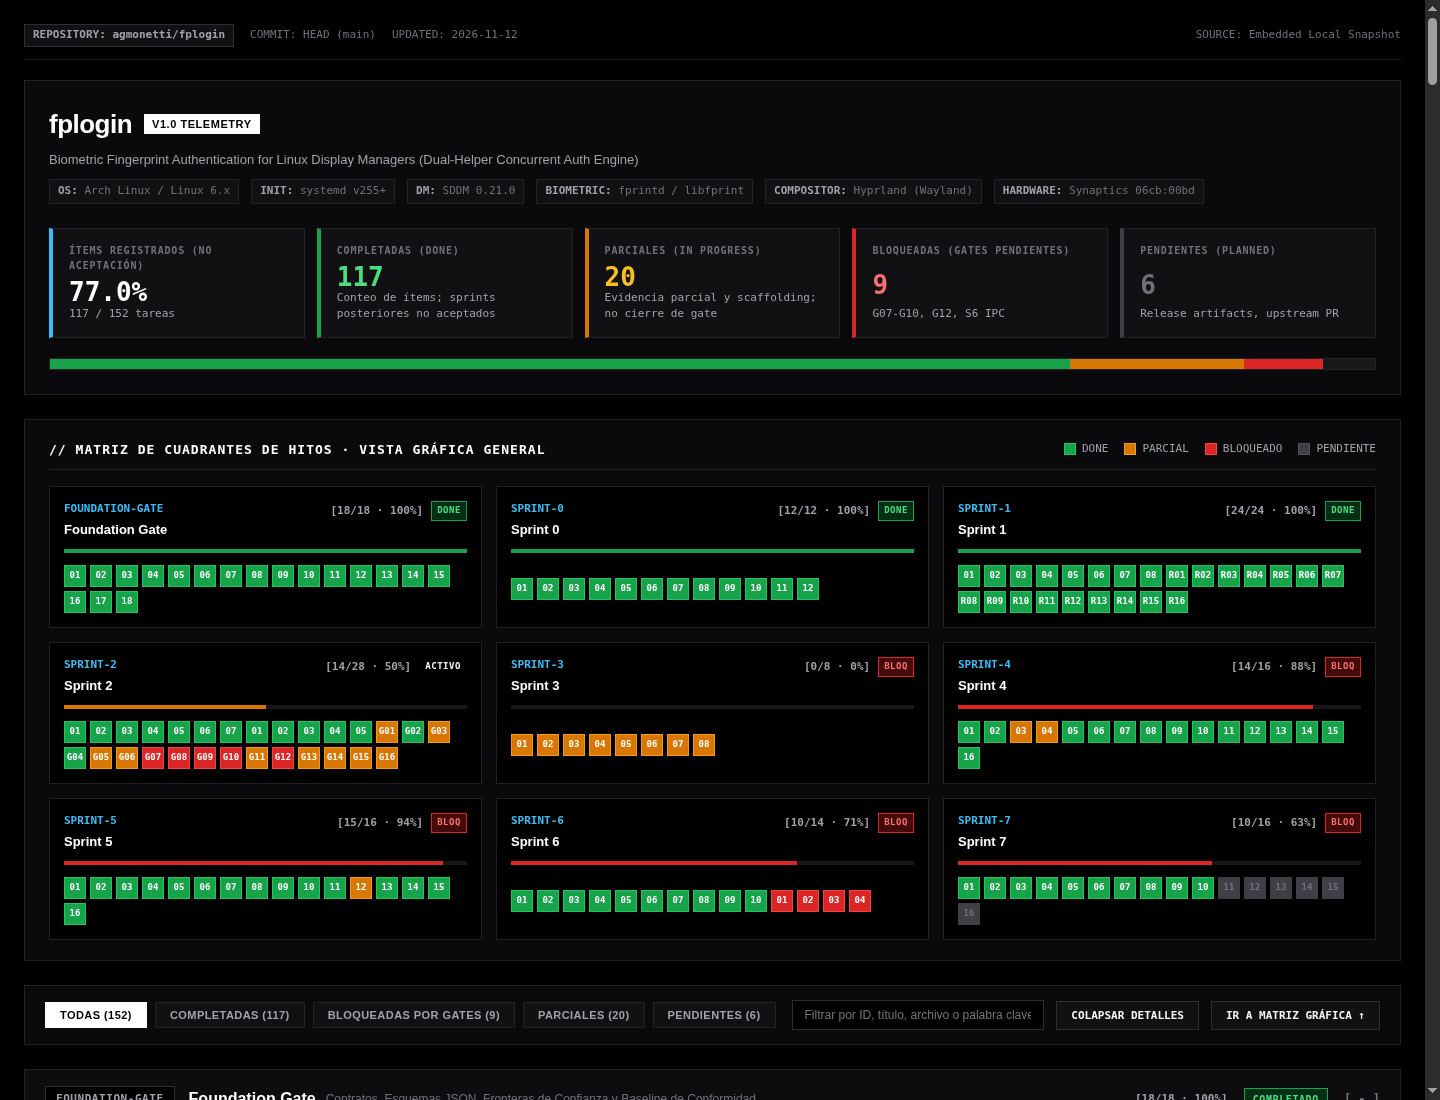
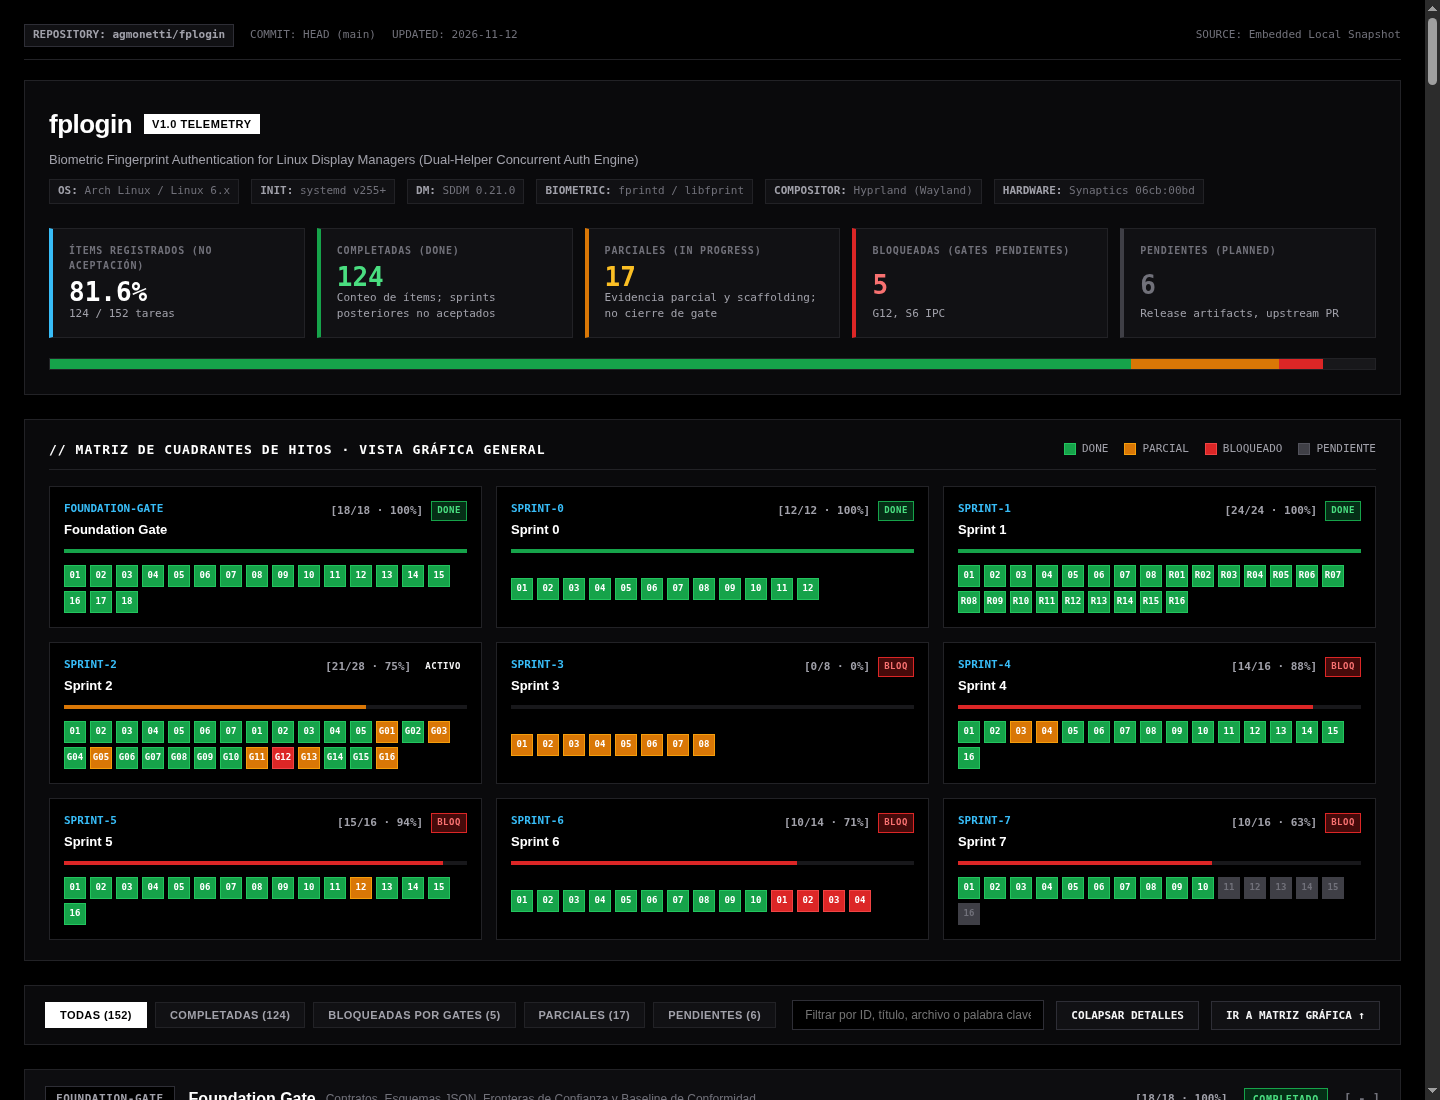
docs: record physical validation of G06c, Group B, G14 and G15; update dashboard

diff --git a/dashboard.html b/dashboard.html
@@ -922,7 +922,7 @@
       <div class="metric-card blocked">
         <div class="metric-label">Bloqueadas (gates pendientes)</div>
         <div class="metric-val" id="val-blocked" style="color: var(--status-blocked-text);">21</div>
-        <div class="metric-sub">G07-G10, G12, S6 IPC</div>
+        <div class="metric-sub">G12, S6 IPC</div>
       </div>
       <div class="metric-card pending">
         <div class="metric-label">Pendientes (Planned)</div>
@@ -1047,11 +1047,11 @@
     "next_step": "Revisión independiente; decisión sobre el greeter Qt5; pruebas con lector (Sprint 2 G06c/G07–G10/G14–G15 y el camino de huella del paquete).",
     "summary": {
       "total_items": 152,
-      "done": 117,
-      "partial": 20,
-      "blocked": 9,
+      "done": 124,
+      "partial": 17,
+      "blocked": 5,
       "pending": 6,
-      "percentage": 76.97
+      "percentage": 81.6
     }
   },
   "sprints": [
@@ -1613,37 +1613,37 @@
         {
           "id": "G06",
           "title": "G06: Lector Ausente / Servicio Apagado / Usuario No Enrolado",
-          "status": "partial",
-          "description": "G06a (lector ausente) y G06b (servicio enmascarado, Retry sin bucle) verificados en la superficie real, con la contraseña conservada que abre una sola sesión. Falta G06c (usuario sin huellas con lector).",
-          "evidence": "docs/SPRINT_2_VALIDATION_CHECKLIST.md; docs/reviews/sprint-2.md §12"
+          "status": "done",
+          "description": "G06a (sin lector), G06b (servicio enmascarado) y G06c (usuario fplab2 sin huellas con lector presente) verificados en superficie real sin bucles y con login por contraseña conservada.",
+          "evidence": "docs/SPRINT_2_VALIDATION_CHECKLIST.md; .work/evidence/sprint2/physical-20261112T134819-*"
         },
         {
           "id": "G07",
           "title": "G07: Cambio Rápido de Usuario / Sesión A–B–A",
-          "status": "blocked",
-          "description": "Offline hecho: con helper real dentro de PAM, A→B→A cancela con limpieza normal y el reemplazo arranca recién después de la salida observada (4/4). Falta la física con dos usuarios.",
-          "evidence": "docs/SPRINT_2_VALIDATION_CHECKLIST.md"
+          "status": "done",
+          "description": "Verificado en superficie real: con escaneo activo, A→B→A cancela helper viejo, espera su salida observada y el reemplazo gana limpiamente por huella en sesión seat0 única.",
+          "evidence": "docs/SPRINT_2_VALIDATION_CHECKLIST.md; .work/evidence/sprint2/physical-20261112T134819-*"
         },
         {
           "id": "G08",
           "title": "G08: Cancelación Previa al Ack y Reintento Explícito",
-          "status": "blocked",
-          "description": "Petición de cancelación enviada antes de que el demonio SDDM responda el acknowledge de inicio.",
-          "evidence": "docs/reviews/sprint-2.md (Pendiente Hardware)"
+          "status": "done",
+          "description": "Verificado en superficie real: cancelación con Escape (pam_authenticate rc=9, pam_end rc=0, salida normal), Retry relanza helper gen 2 y abre sesión por huella.",
+          "evidence": "docs/SPRINT_2_VALIDATION_CHECKLIST.md; .work/evidence/sprint2/physical-20261112T134819-*"
         },
         {
           "id": "G09",
           "title": "G09: Fallo de Contraseña y Reintento Continuo",
-          "status": "blocked",
-          "description": "Offline hecho: la contraseña errónea no reinicia la huella (misma generación), que gana con un solo permiso y una sola sesión (4/4). Falta la física.",
-          "evidence": "docs/SPRINT_2_VALIDATION_CHECKLIST.md"
+          "status": "done",
+          "description": "Verificado en superficie real: contraseña errónea da PAM rc=7 y sale, helper de huella sigue activo en su misma generación y gana al apoyar el dedo.",
+          "evidence": "docs/SPRINT_2_VALIDATION_CHECKLIST.md; .work/evidence/sprint2/physical-20261112T134819-*"
         },
         {
           "id": "G10",
           "title": "G10: Denegación de Cuenta tras Coincidencia Biométrica",
-          "status": "blocked",
-          "description": "Offline hecho: test integrado con helper real y mock PAM (match → cuenta denegada → intento Failed, sin sesión). Falta la física con política reversible en el invitado.",
-          "evidence": "docs/SPRINT_2_VALIDATION_CHECKLIST.md"
+          "status": "done",
+          "description": "Verificado en superficie real: huella coincide (rc=0), pam_acct_mgmt deniega (rc=6), 0 sesiones de usuario. Recuperación limpia por contraseña tras restaurar PAM.",
+          "evidence": "docs/SPRINT_2_VALIDATION_CHECKLIST.md; .work/evidence/sprint2/physical-20261112T134819-*"
         },
         {
           "id": "G11",
@@ -1669,16 +1669,16 @@
         {
           "id": "G14",
           "title": "G14: Destrucción de Greeter, Suspensión y Energía",
-          "status": "partial",
-          "description": "Suspensión/reanudación real sin activación oculta (request nuevo); espera de helpers probada offline. El reset del invitado tras S3 es del entorno (TCG). Faltan los casos con lector.",
-          "evidence": "docs/SPRINT_2_VALIDATION_CHECKLIST.md; docs/reviews/sprint-2.md §12"
+          "status": "done",
+          "description": "Verificado en superficie real: suspensión sin activación oculta (Group A); parada de SDDM con helper de huella vivo limpia en 0.58s con terminate-intent y salida normal (código 1); 0 binarios SDDM residuales.",
+          "evidence": "docs/SPRINT_2_VALIDATION_CHECKLIST.md; .work/evidence/sprint2/physical-20261112T134819-*"
         },
         {
           "id": "G15",
           "title": "G15: Logout / Relogin y Compatibilidad con Hyprland",
-          "status": "partial",
-          "description": "4 ciclos reales de logout → greeter nuevo → relogin limpio. Falta la matriz de compatibilidad y el relogin por huella.",
-          "evidence": "docs/SPRINT_2_VALIDATION_CHECKLIST.md; docs/reviews/sprint-2.md §12"
+          "status": "done",
+          "description": "Verificado en superficie real: 4 ciclos de logout/relogin con contraseña limpios + relogin por huella directo tras logout verificado en sesión seat0 nueva (id 35).",
+          "evidence": "docs/SPRINT_2_VALIDATION_CHECKLIST.md; .work/evidence/sprint2/physical-20261112T134819-*"
         },
         {
           "id": "G16",
@@ -1690,11 +1690,11 @@
       ],
       "summary": {
         "total": 28,
-        "done": 14,
-        "partial": 9,
-        "blocked": 5,
+        "done": 21,
+        "partial": 6,
+        "blocked": 1,
         "pending": 0,
-        "percentage": 50.0
+        "percentage": 75.0
       }
     },
     {
